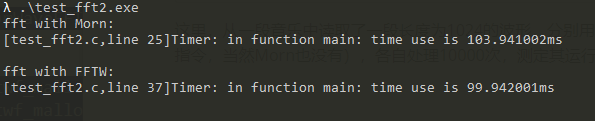
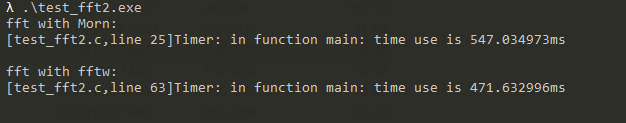
更新

diff --git a/src/wave/morn_wave_FFT.c b/src/wave/morn_wave_FFT.c
@@ -24,7 +24,7 @@ You should have received a copy of the GNU General Public License along with thi
     re2=re0-re_mul;im2=-im0+im_mul;\
     re0=re0+re_mul;im0= im0+im_mul;\
 }
- 
+
 #define FFTCACL2(im0,re1) {\
     im0=-re1;\
 }
@@ -116,18 +116,16 @@ void mWaveFFT(MWave *src,MWave *fft)
                                              data[n4],(n5>src->size)?0:data[n5],data[n6],(n7>src->size)?0:data[n7]);
         }
 
-        for(n=8;n<=N;n=(n<<1))
+        for(n=8;n<=N;n=(n<<1))for(int j=0;j<N+N;j=j+n+n)
         {
-            int m=N/n;
-            for(j=0;j<N+N;j=j+n+n)
+            FFTCACL0(FFTDataRe[j],FFTDataRe[j+n]);
+            
+            for(i=1,k=N/n;i<(n>>1);i++,k=k+N/n)
             {
-                FFTCACL0(FFTDataRe[j],FFTDataRe[j+n]);
-                
-                for(i=1,k=m;i<(n>>1);i++,k=k+m)
-                    FFTCACL1(FFTDataRe[j+i],FFTDataIm[j+i],FFTDataRe[j+i+n],FFTDataIm[j+i+n],FFTDataRe[j-i+n],FFTDataIm[j-i+n]);
-
-                FFTCACL2(FFTDataIm[j+i],FFTDataRe[j+i+n]);
+                FFTCACL1(FFTDataRe[j+i],FFTDataIm[j+i],FFTDataRe[j+n+i],FFTDataIm[j+n+i],FFTDataRe[j+n-i],FFTDataIm[j+n-i]);
             }
+
+            FFTCACL2(FFTDataIm[j+i],FFTDataRe[j+n+i]);
         }
 
         for(int i=N+1;i<N+N;i++) {FFTDataRe[i]=FFTDataRe[N+N-i];FFTDataIm[i]=0-FFTDataIm[N+N-i];}

diff --git a/test/test_fft.c b/test/test_fft.c
@@ -15,7 +15,7 @@ You should have received a copy of the GNU General Public License along with thi
 
 int main()
 {
-    MWave *src = mWaveCreate(1,10,NULL);
+    MWave *src = mWaveCreate(1,30,NULL);
     MWave *fft = mWaveCreate(DFLT,DFLT,NULL);
     MWave *dst = mWaveCreate(DFLT,DFLT,NULL);
     
@@ -24,12 +24,12 @@ int main()
     
     mWaveFFT(src,fft);
     
-    printf("\nfft->size is %d.\n",fft->size);
+    printf("\n\nfft->size is %d.\n",fft->size);
     for(int i=0;i<fft->size;i++) printf("%f+%fi,",fft->data[0][i],fft->data[1][i]);
     
     mWaveIFFT(fft,dst);
     
-    printf("\ndst->size is %d.\n",dst->size);
+    printf("\n\ndst->size is %d.\n",dst->size);
     for(int i=0;i<dst->size;i++) printf("%f,",dst->data[0][i]);
     
     mWaveRelease(src);

diff --git a/src/deep_learning/morn_learning_net.c b/src/deep_learning/morn_learning_net.c
@@ -209,9 +209,10 @@ void mNetworkBackward(MList *net)
 
 int morn_network_flag = MORN_PREDICT;
 
-void NetworkTrain(MFile *ini)
+void mDeeplearningTrain(char *filename)
 {
     morn_network_flag = MORN_TRAIN;
+    MFile *ini = mFileCreate(filename);
     MList *net = mNetworkGenerate(ini);
    
     for(morn_network_time=0;morn_network_time<=morn_network_time_max;morn_network_time++)
@@ -221,8 +222,10 @@ void NetworkTrain(MFile *ini)
         mNetworkBackward(net);
         mLog(INFO,"%05d:error is %f\n",morn_network_time,morn_network_error);
         if(morn_network_error <= morn_network_error_thresh)
-            return;
+            break;
     }
+    
+    mFileRelease(ini);
 }
 
 void mNetworkTrain(MFile *ini,char *name[],MTensor *tns[])

diff --git a/test/test_fft2.c b/test/test_fft2.c
@@ -48,7 +48,7 @@ int main()
     for(int i=0;i<1024;i++){data[i]=src->data[0][i];}
     fftwf_complex *out = fftwf_malloc(sizeof(fftwf_complex) * 1024);
     
-    printf("fft with Morn:\n");
+    printf("fft with fftw:\n");
     mTimerBegin();
     // fftwf_plan plan = fftwf_plan_dft_1d(1024,in,out,FFTW_FORWARD,FFTW_ESTIMATE);
     fftwf_plan plan = fftwf_plan_dft_r2c_1d(1024,data,out,FFTW_ESTIMATE);

diff --git a/include/morn_tensor.h b/include/morn_tensor.h
@@ -120,7 +120,7 @@ void mTrainData(MFile *ini);
 // void mPredictData(MFile *ini,char *name[],MTensor *tns[]);
 void mNetworkTensor(MFile *ini,char *name[],MTensor *tns[]);
 
-void NetworkTrain(MFile *ini);
+void mDeeplearningTrain(char *filename);
 void mNetworkTrain(MFile *ini,char *name[],MTensor *tns[]);
 void mNetworkPredict(MFile *ini,char *name[],MTensor *tns[]);
 
